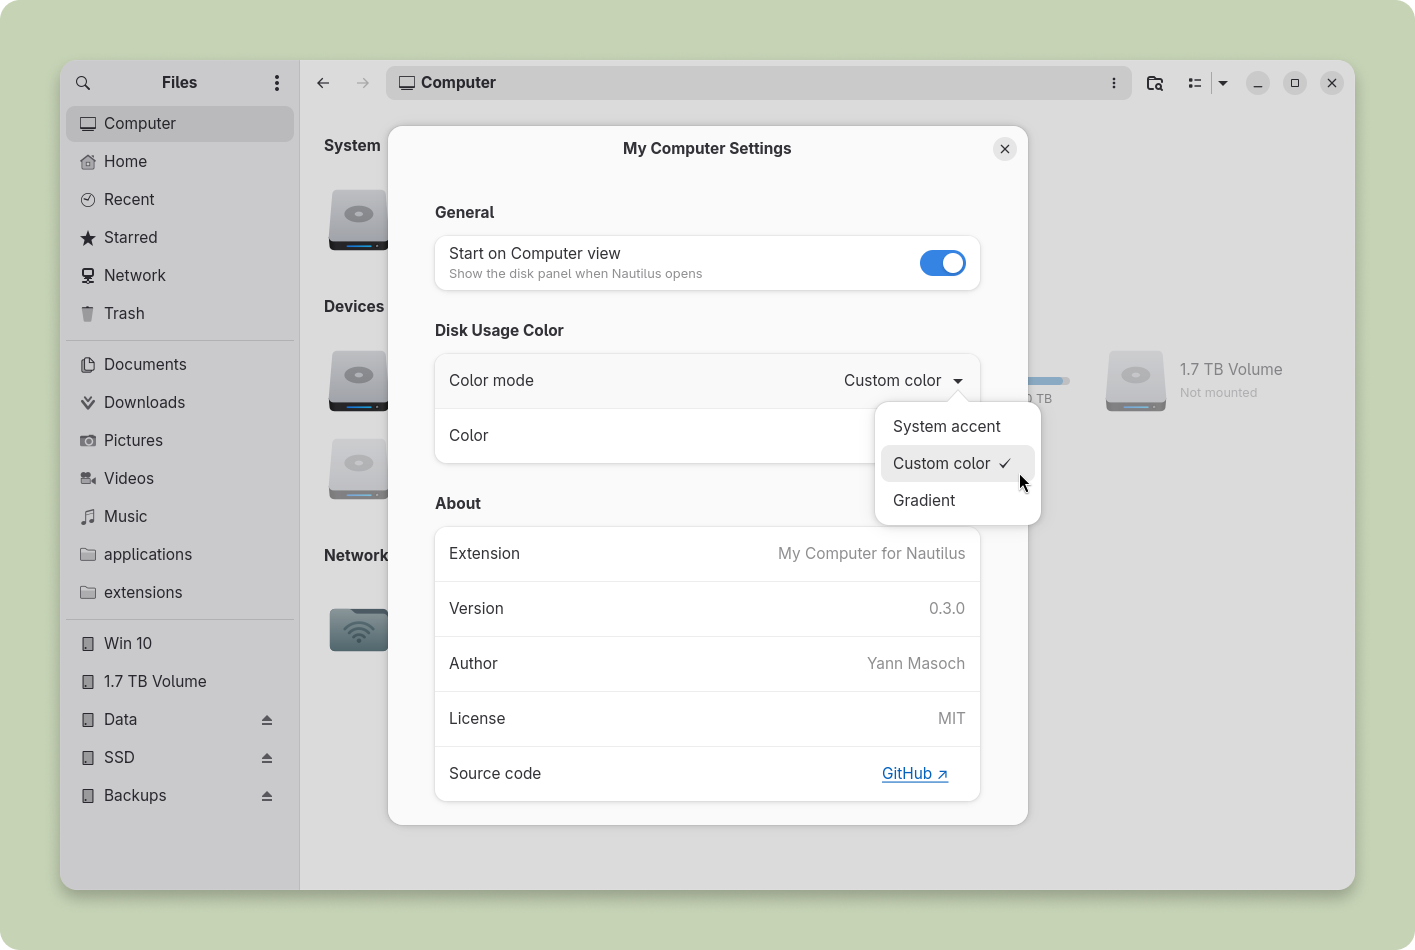
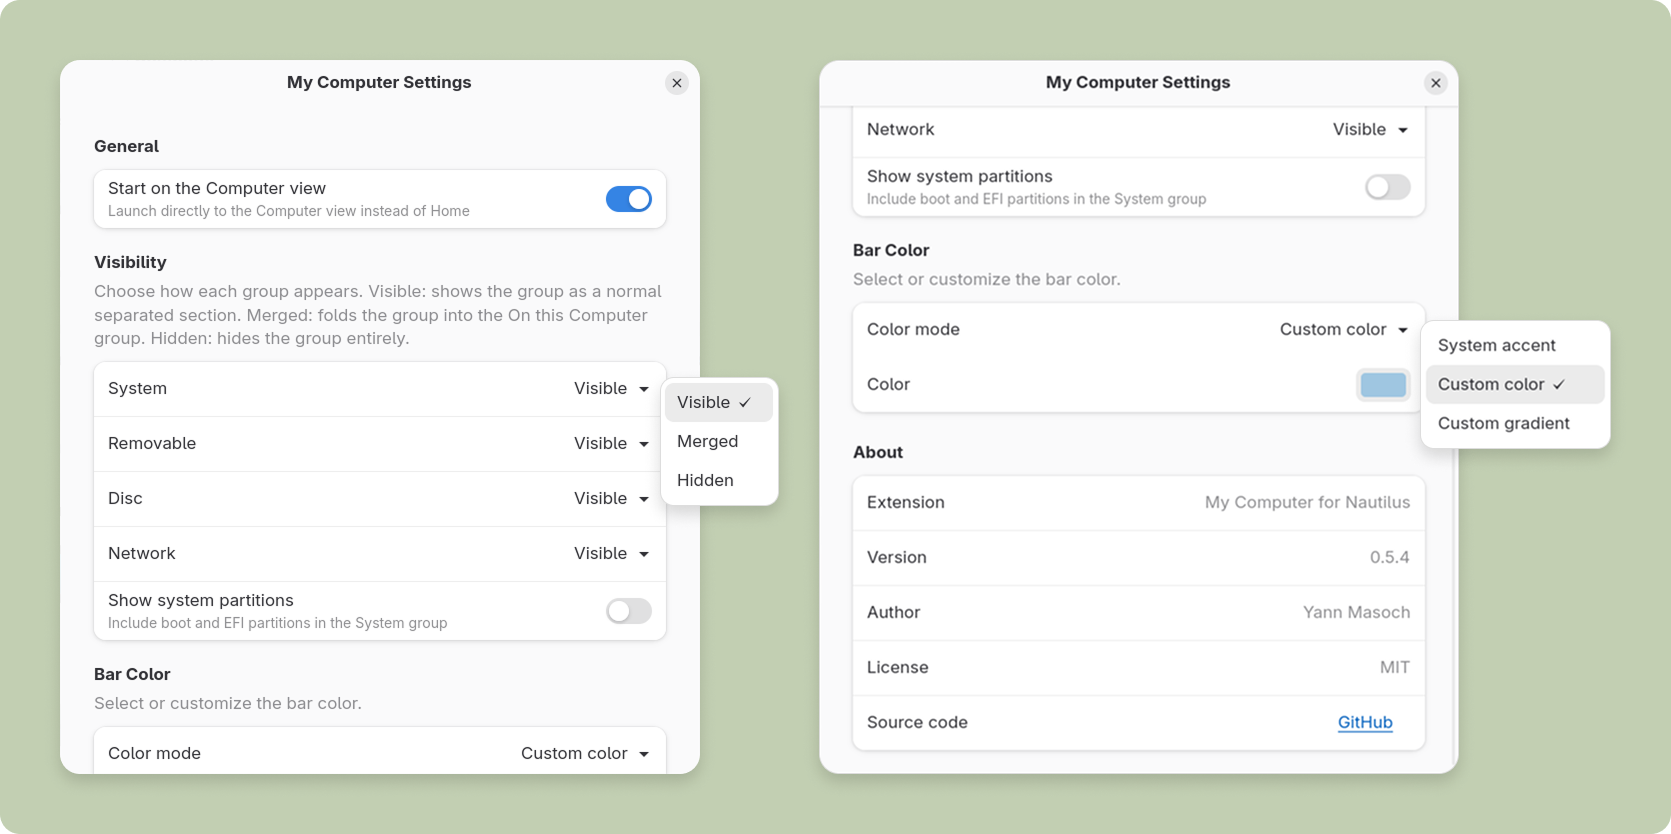
docs: update README, add groups-visibility screenshot, refresh assets
- Add groups visibility section and expand settings description
- Add groups-visibility.png screenshot
- Update screenshot, settings-page, and light-and-dark-mode images

diff --git a/README.md b/README.md
@@ -38,11 +38,36 @@ Computer sits at the top of the GNOME Files sidebar, click to open the panel and
 
 ### Settings page
 
-My Computer Settings let you open GNOME Files directly on the Computer view at startup, and customize the disk usage bar color to match your style.
+My Computer Settings let you:
+
+- Open GNOME Files directly on the Computer view at startup
+- Show or hide system partitions (root, boot, EFI, swap)
+- Control the visibility of each group - visible, hidden, or merged into On this Computer
+- Customize the disk usage bar color to match your style
 
 ![Settings Page](assets/images/settings-page.png)
 
 > Settings are stored via GSettings under `io.github.yannmasoch.nautilus-my-computer` and persist across sessions.
+
+## Groups visibility
+
+My Computer organises your storage into five groups:
+
+- **System** - root, boot, EFI, and swap partitions
+- **On this Computer** - your internal drives and partitions
+- **Removable** - USB drives, phones, cameras, and removable media
+- **Disc** - optical drives and mounted ISO images
+- **Network** - network shares and remote filesystems
+
+Each group (except **On this Computer**) has three visibility settings, configurable from the right-click menu on the Computer button:
+
+- **Visible** - shown as its own labelled section
+- **Hidden** - removed from the panel entirely
+- **Merged** - folded into **On this Computer**, keeping everything in one flat list
+
+Make the **My Computer** view your own, and organize it to show only what matters to you.
+
+![Groups Visibility](assets/images/groups-visibility.png)
 
 ## Style
 
@@ -76,6 +101,7 @@ All icons are native GNOME icons. My Computer works with any custom icon theme.
 - **Customizable bars:** choose between GNOME accent color, a custom color, or a custom gradient for the usage bars.
 - **Start on My Computer:** choose to open GNOME Files directly on the My Computer panel every time.
 - **Right-click context menu:** open, open in new tab, open in new window, mount, unmount, and eject volumes directly from a native-feel context menu.
+- **Groups visibility:** choose which storage groups are visible, hidden, or merged into one flat list - directly from the right-click menu on the Computer button.
   
 ## Tested on
 